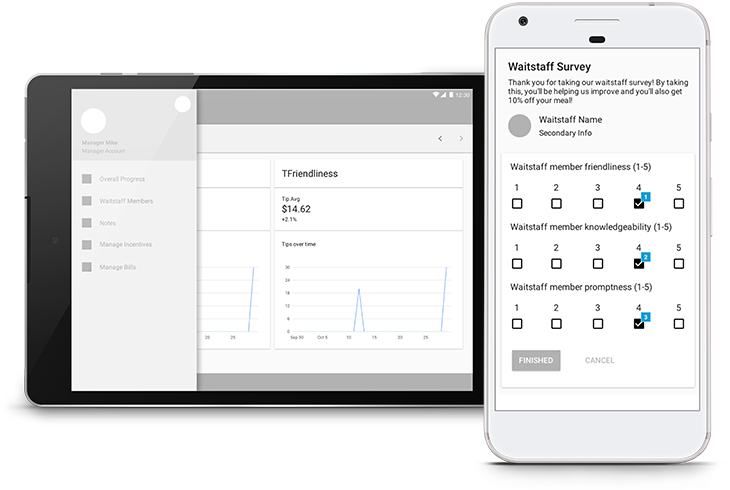
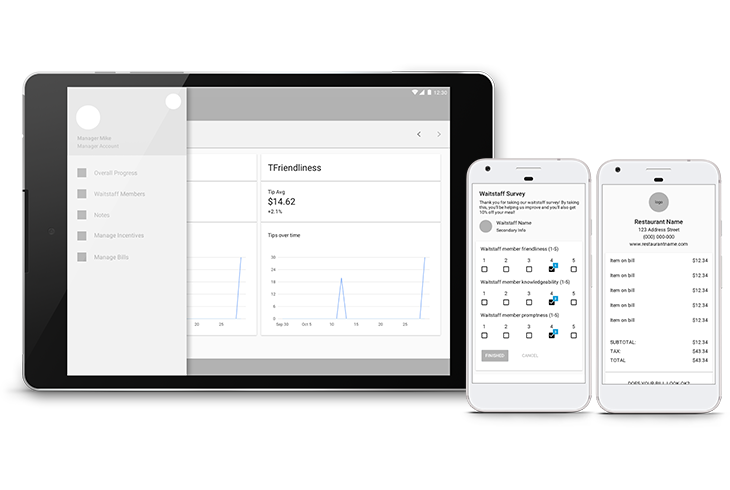
final google push
final google push

Changed region(s): [[0.0301, 0.0, 0.9945, 0.9796]]

diff --git a/Projects/Google/41b3e73fab53e6bcb61d4625422b7d65a04d68a4/index.html b/Projects/Google/41b3e73fab53e6bcb61d4625422b7d65a04d68a4/index.html
@@ -74,7 +74,7 @@
                 <div style="float:right" class="col-md-5">
                     <div class="feature-list">
                         <h3 style="margin-top:0px">Introducing Google Waitstaff Management</h3>
-                        <p style="line-height:24px">Google Waitstaff is multi-device platform for taking waitstaff suggestions and using sound data metrics to improve and secure new employment.</p>
+                        <p style="line-height:24px; font-weight:500">Google Waitstaff is multi-device platform for taking waitstaff suggestions and using sound data metrics to improve and secure new employment. Diners fill out waitstaff survey while filling out their meal check, eliminating the need for waitstaff feedback outside of the restaurant environment. The waitstaff tablet allows management to track waitstaff progress over time and make corrections to improve performance.</p>
                         
                     </div>
                 </div>

diff --git a/Projects/Google/index.html b/Projects/Google/index.html
@@ -12,14 +12,17 @@
 
 body {
 	
-	background-image: url('grunge_patterns.jpg');
+	background-color: #fff;
 	background-attachment: fixed;
-	color: #333;
+	color: #fff;
 }
 
 .box {
 	border-radius: 3px;
-	background: rgba(101, 101, 101, 0.7); margin: auto; padding: 12px;
+    border-width: 1px;
+    border-style: solid;
+    border-color: #DEDEDE;
+	background: #fff; margin: auto; padding: 12px;
 }
 
 .lightbox {
@@ -29,7 +32,7 @@ body {
 	left: 0;
 	width: 100%;
 	height: 100%;
-	background: rgba(10, 10, 10, 0.8);
+	background: #F3F4F8;
 	text-align: center;
 	margin: auto;
 	
@@ -49,7 +52,7 @@ div.vertical {
 }
 
 ::-webkit-input-placeholder {
-   color: #955;
+   color: #000;
    text-align: center;
 }
 

diff --git a/Projects/Google/41b3e73fab53e6bcb61d4625422b7d65a04d68a4/css/styles.css b/Projects/Google/41b3e73fab53e6bcb61d4625422b7d65a04d68a4/css/styles.css
@@ -788,7 +788,7 @@ Features-stack
     width: 730px;
     height: 490px;
     background: url("../img/macbook-pro.png") no-repeat center center;
-    top: 10%;
+    top: 15%;
     z-index: 4;
     left: 5%; 
 }
